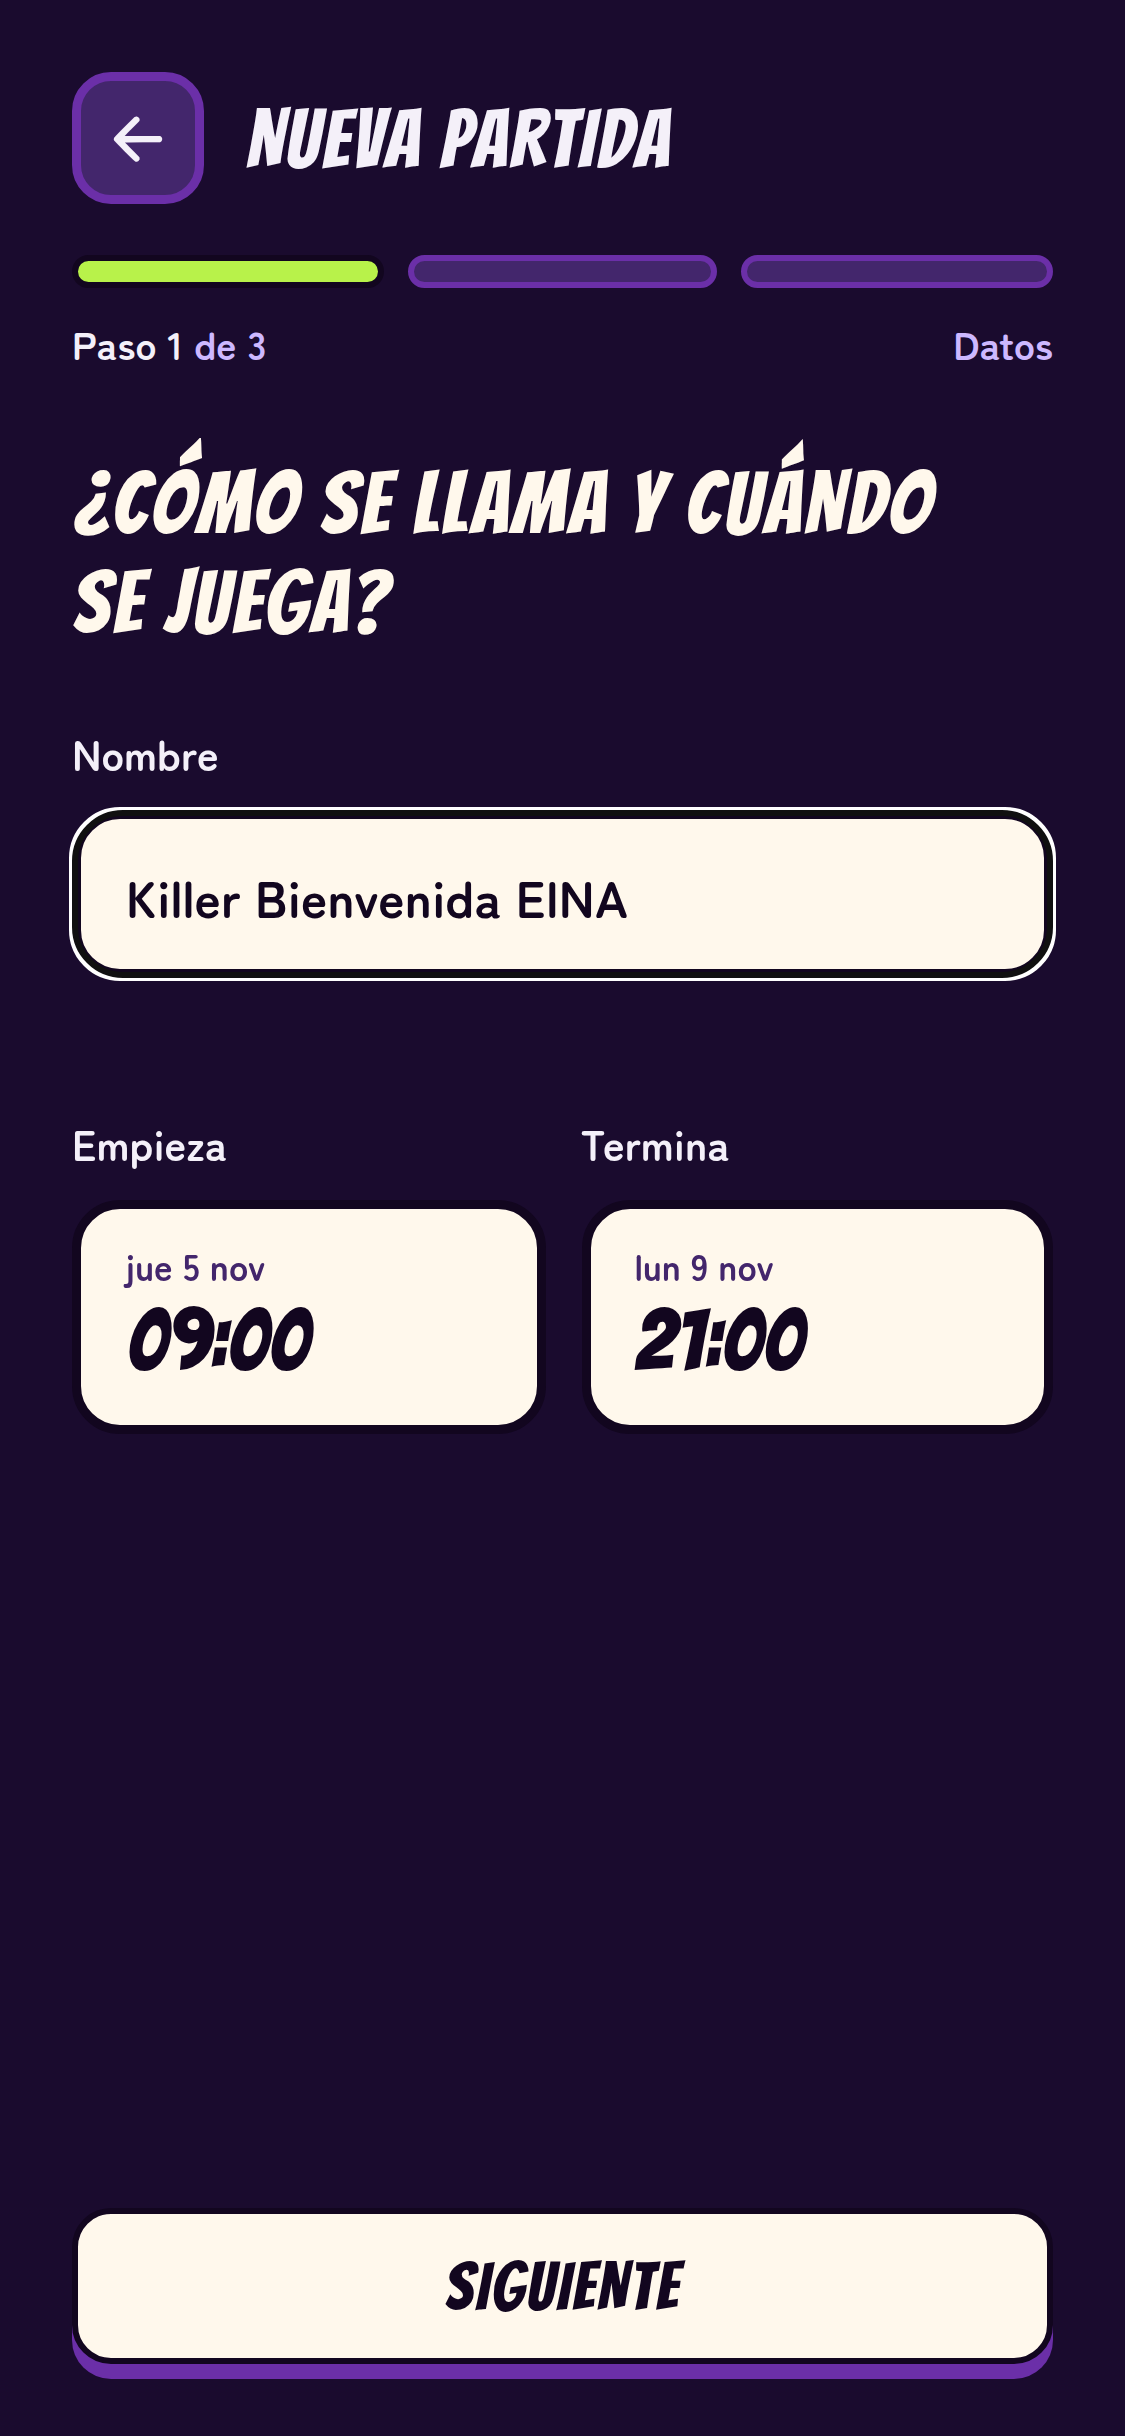
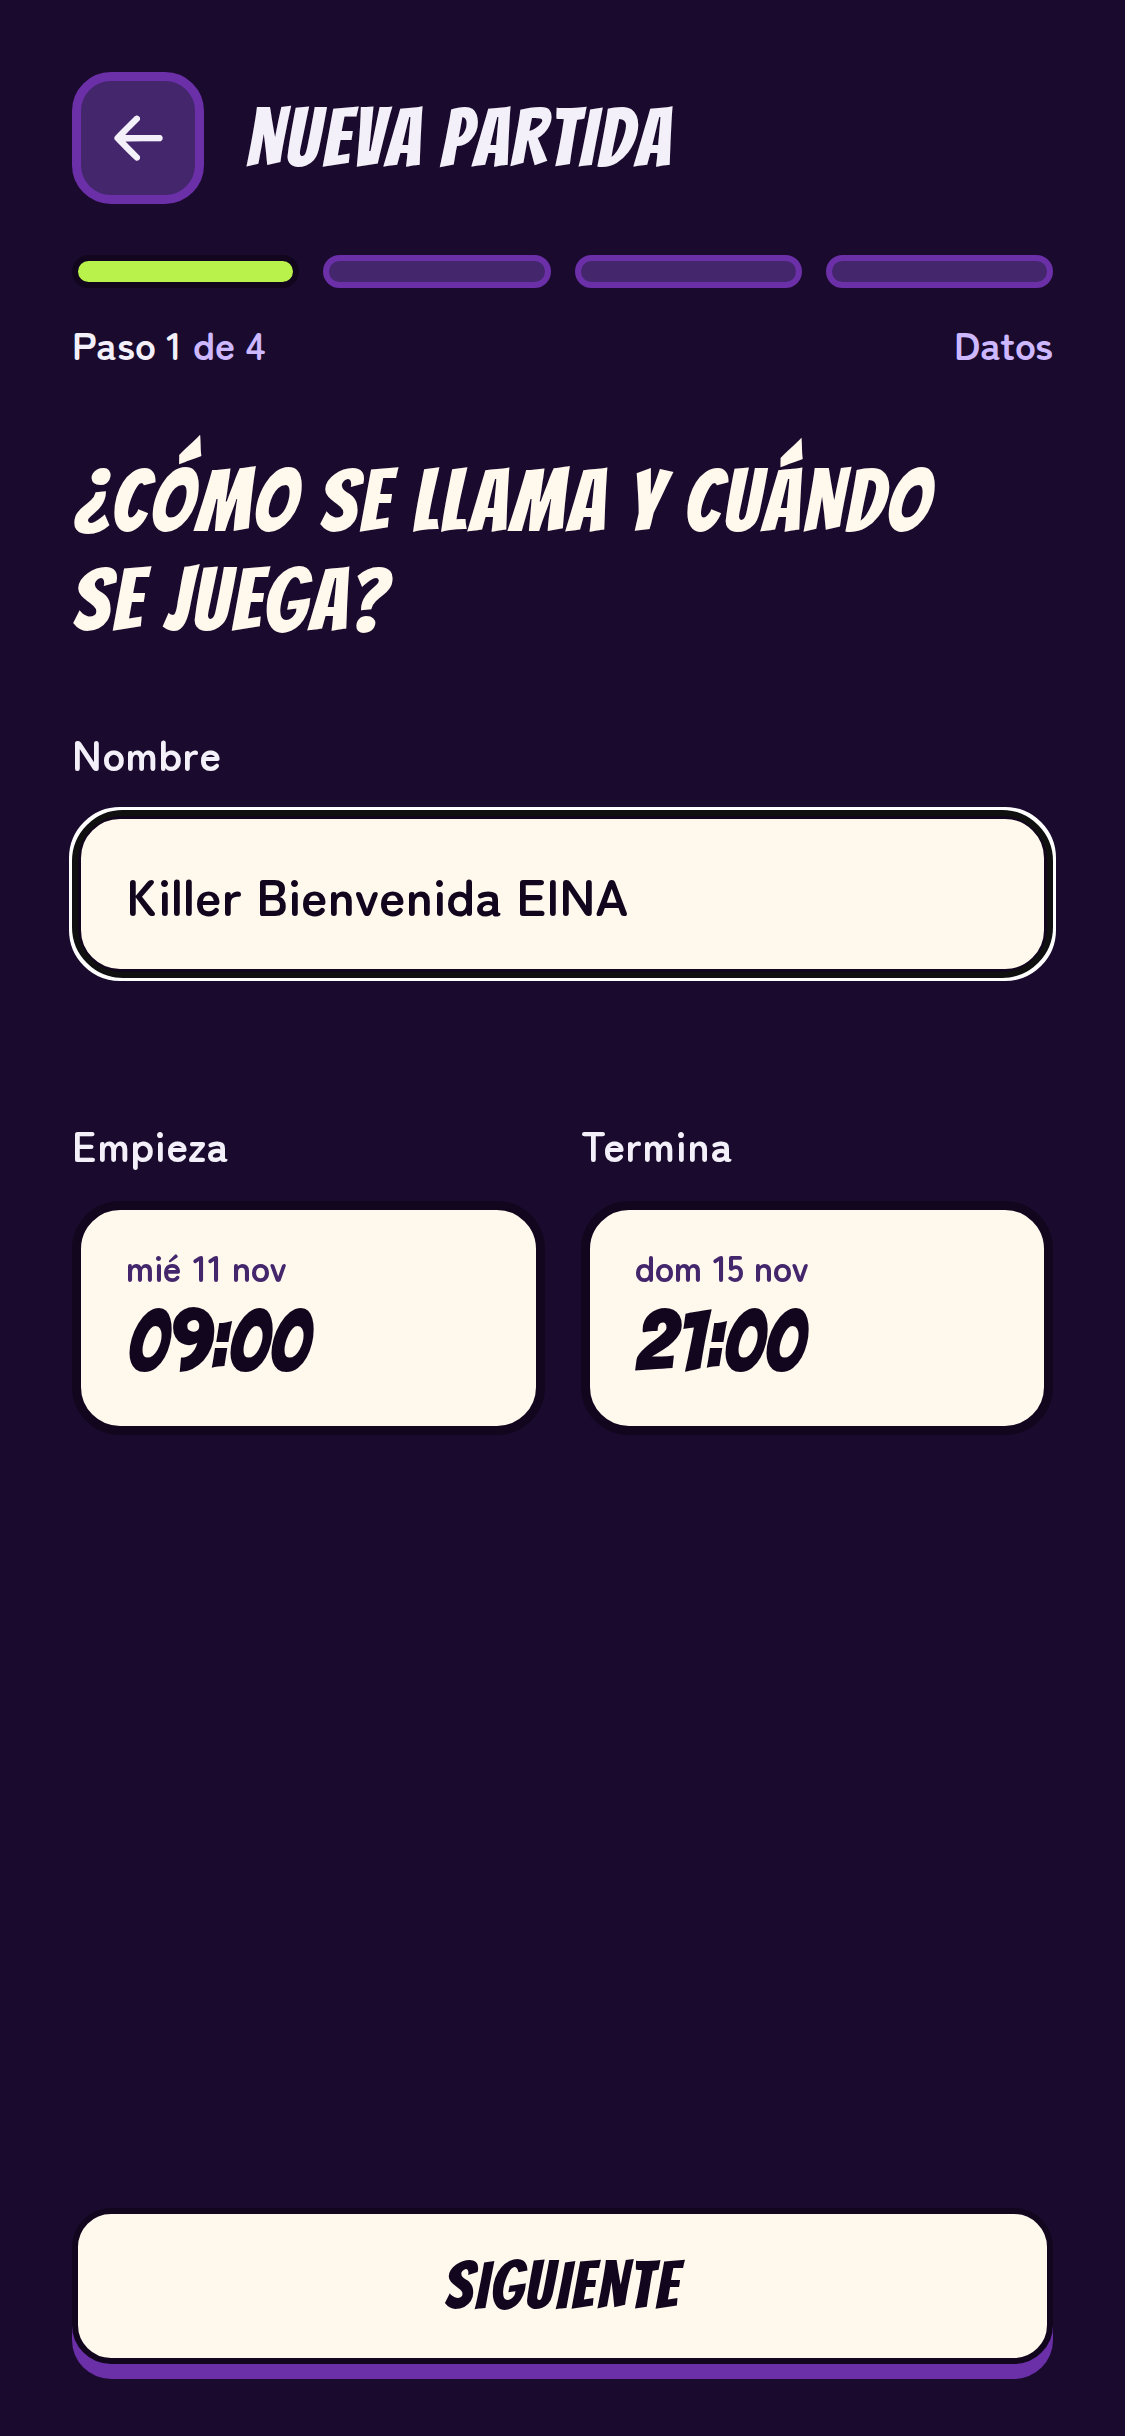
Tarea #215: 6a.5 Manual de las misiones con IA (#252)

diff --git a/docs/manual-usuario/README.md b/docs/manual-usuario/README.md
@@ -50,7 +50,7 @@ Se borran tu alias, tus datos de acceso y tu horario, y no se puede deshacer. De
 
 ## 2. Crear una partida
 
-En Inicio, pulsa «Crear partida». El asistente te pide el nombre y las fechas, después las reglas, y termina en la pantalla para compartirla.
+En Inicio, pulsa «Crear partida». El asistente tiene cuatro pasos: nombre y fechas, reglas, misiones y, con la partida ya creada, compartirla.
 
 ### 2.1 Nombre y fechas
 
@@ -68,11 +68,34 @@ La partida tiene que empezar al menos 15 minutos después de crearla y terminar 
 - **Permitir entradas tardías.** Queda guardado con la partida; por ahora nadie puede unirse una vez empezada.
 - **Plazo para resolver disputas.** 2, 6, 12 o 24 horas; por defecto, 12.
 
-Las misiones salen de la biblioteca de GhostMark. Pulsa «Crear partida».
+Pulsa «Siguiente».
 
 <img src="img/crear-reglas.png" alt="Reglas de la partida" width="250">
 
-### 2.3 Compartirla
+### 2.3 Misiones
+
+Elige de dónde salen las misiones de la partida:
+
+- **Biblioteca.** Se usan las misiones revisadas de GhostMark. Pulsa «Crear partida».
+- **Generar con IA.** Elige un contexto («Campus», «Fiesta de bienvenida», «Semana de exámenes» u «Otro…», donde lo escribes tú, de 3 a 40 caracteres) y pulsa «Generar misiones». La partida se crea en ese momento y la IA propone una tanda de hasta 8 misiones pensadas para ese contexto.
+
+<img src="img/crear-misiones-ia.png" alt="Paso de misiones con la IA y el contexto" width="250">
+
+Ninguna misión de la IA entra en la partida si no la apruebas tú. La app te las enseña de una en una, con el contador arriba («1 de 8»):
+
+1. Lee la misión y desliza la carta a la derecha para aprobarla o a la izquierda para rechazarla. También puedes pulsar «Aprobar» o «Rechazar».
+2. La decisión es definitiva: una misión rechazada no vuelve a salir y una aprobada no se puede quitar.
+3. Al revisar la última, la app muestra «Tanda revisada» y cuántas has aprobado.
+
+<img src="img/revisar-mision-ia.png" alt="Misión propuesta por la IA, con Aprobar y Rechazar" width="250"> <img src="img/tanda-revisada.png" alt="Tanda revisada, con otra tanda o continuar" width="250">
+
+Desde ahí, «Pedir otra tanda» trae hasta ocho más con el mismo contexto; el número entre paréntesis son las tandas que te quedan, hasta 5 por partida. «Continuar» lleva a la pantalla para compartirla.
+
+Antes de enseñártelas, GhostMark descarta las que no tienen el formato de una misión y las que tocan algo prohibido, como el contacto físico o los objetos que simulen armas. Por eso una tanda puede traer menos de 8.
+
+Al arrancar, cada jugador recibe una de las que aprobaste; si hay menos aprobadas que jugadores, el resto sale de la biblioteca. Las misiones de la IA solo se piden en este paso: si sales con la flecha, la partida se queda con las que hayas aprobado.
+
+### 2.4 Compartirla
 
 La app muestra «¡Partida creada!» con el nombre, el código de invitación, un QR y el enlace de la partida.
 
@@ -156,7 +179,7 @@ Tu objetivo y tu misión solo los ves tú. Nadie más puede verlos, tampoco el m
 
 ### 5.3 Las misiones
 
-La misión sale de una biblioteca de misiones revisadas, y en una misma partida no se repite hasta que se acaban. Ninguna implica contacto físico ni objetos que simulen armas: son cosas como conseguir que tu objetivo te diga la hora o que te recomiende una canción.
+Si el máster eligió generar las misiones con IA, la tuya es una de las que aprobó. Si no, o si no llegan para todos, sale de una biblioteca de misiones revisadas, y en una misma partida no se repite hasta que se acaban. Ninguna implica contacto físico ni objetos que simulen armas: son cosas como conseguir que tu objetivo te diga la hora o que te recomiende una canción.
 
 ## 6. Código de vida y eliminación
 
